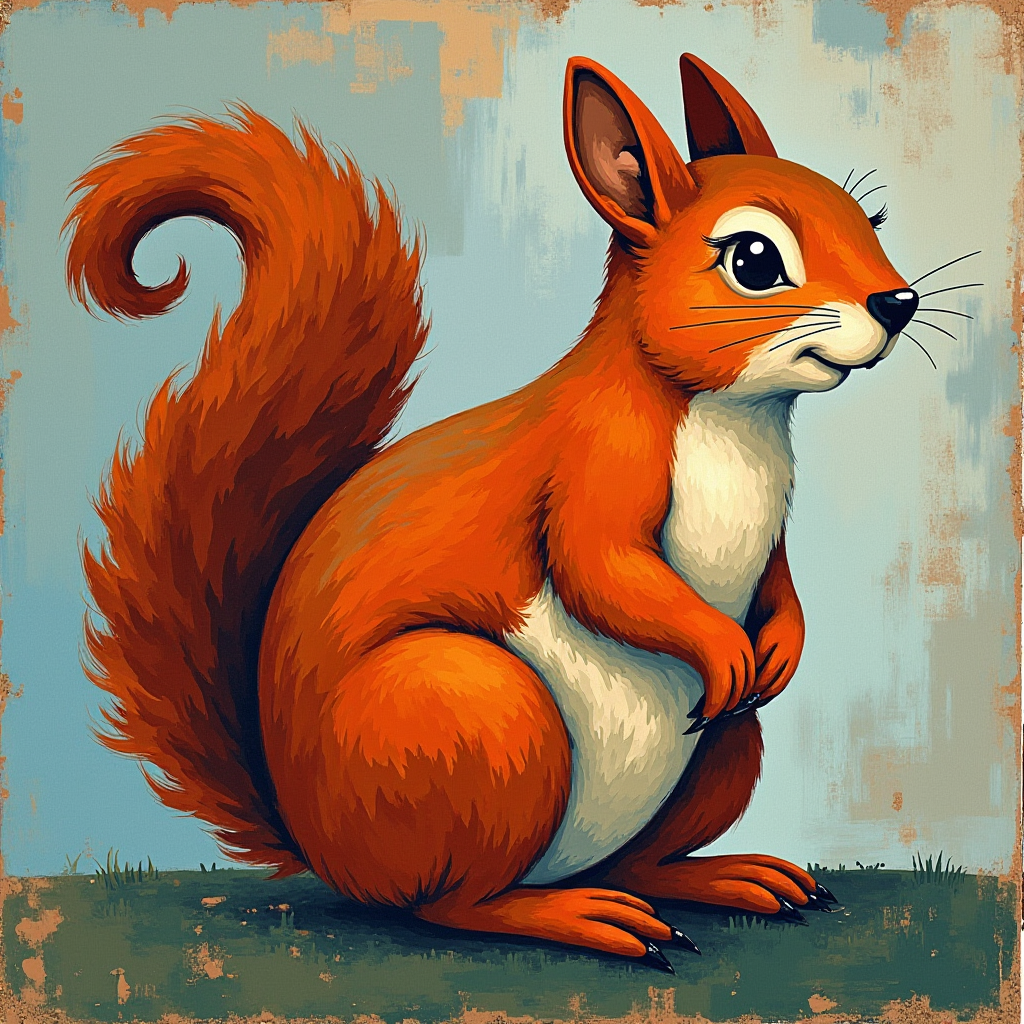
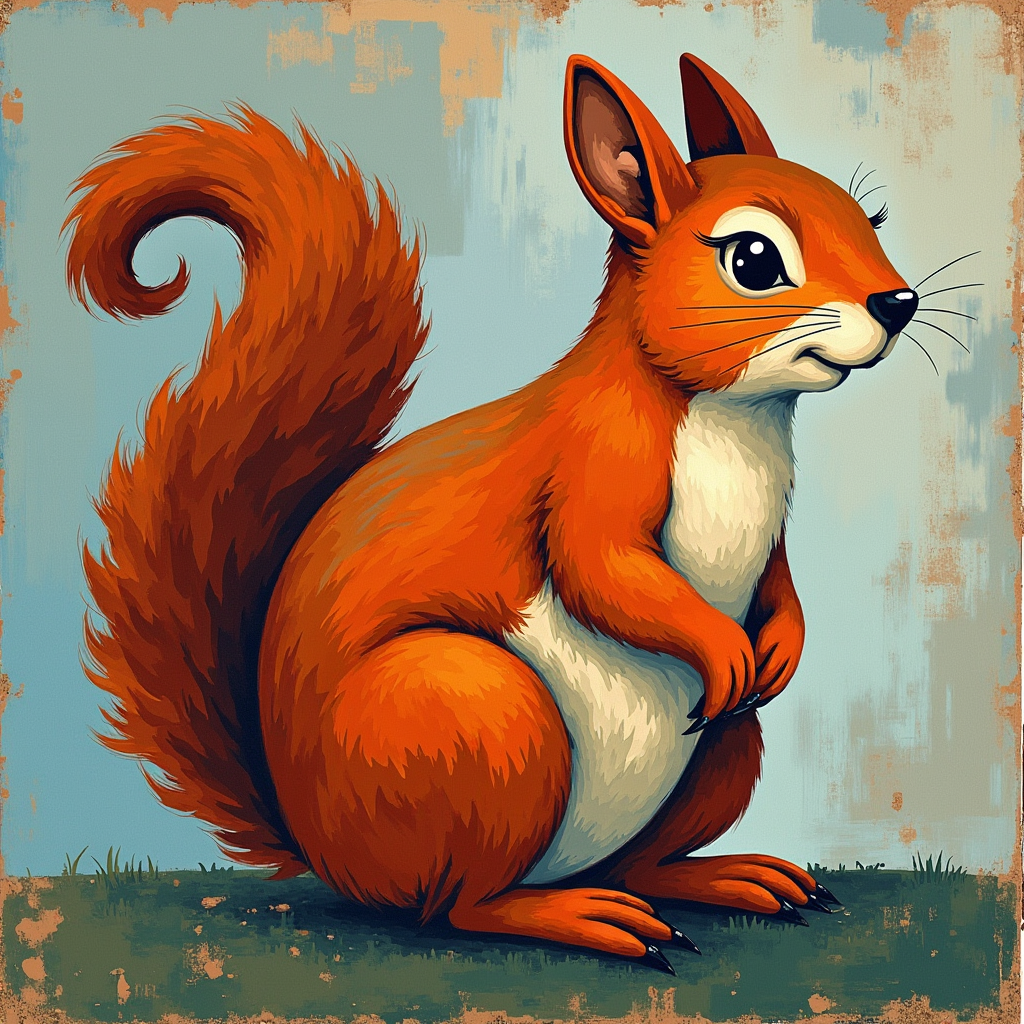
check_trainfree

diff --git a/ppdiffusers/examples/train-free/firstblock_taylorseer/forwards/flux_firstblock_taylor_predict_forward.py b/ppdiffusers/examples/train-free/firstblock_taylorseer/forwards/flux_firstblock_taylor_predict_forward.py
@@ -152,11 +152,6 @@ def FirstBlock_taylor_predict_Forward(
                 if can_use_cache == False:
                     self.prev_first_hidden_states_residual = first_hidden_states_residual.clone()
                 
-                # if self.accumulated_rel_l1_distance < self.rel_l1_thresh:
-                #     should_calc = False
-                # else:
-                #     should_calc = True
-                #     self.accumulated_rel_l1_distance = 0
             
             self.cnt += 1
             if self.cnt == self.num_steps:
@@ -166,14 +161,11 @@ def FirstBlock_taylor_predict_Forward(
         current = joint_attention_kwargs['current']
         if self.enable_teacache:
             if not should_calc:
-                #hidden_states += self.previous_residual
                 hidden_states = step_taylor_formula(cache_dic=cache_dic, current=current)
 
             else:
-                # ori_hidden_states = hidden_states.clone()
                 current['activated_steps'].append(current['step'])
                 for index_block, block in enumerate(self.transformer_blocks):
-                    #因为上面已经算了现在就不应该算了
                     if index_block == 0:
                         continue
                     if self.training and self.gradient_checkpointing:
@@ -263,90 +255,6 @@ def FirstBlock_taylor_predict_Forward(
 
                 hidden_states = hidden_states[:, encoder_hidden_states.shape[1] :, ...]
                 step_derivative_approximation(cache_dic=cache_dic, current=current, feature=hidden_states)
-                # self.previous_residual = hidden_states - ori_hidden_states
-        # else:
-        #     for index_block, block in enumerate(self.transformer_blocks):
-        #         if self.training and self.gradient_checkpointing:
-
-        #             def create_custom_forward(module, return_dict=None):
-        #                 def custom_forward(*inputs):
-        #                     if return_dict is not None:
-        #                         return module(*inputs, return_dict=return_dict)
-        #                     else:
-        #                         return module(*inputs)
-
-        #                 return custom_forward
-
-        #             ckpt_kwargs: Dict[str, Any] = {"use_reentrant": False} if is_torch_version(">=", "1.11.0") else {}
-        #             encoder_hidden_states, hidden_states = paddle.utils.checkpoint.checkpoint(
-        #                 create_custom_forward(block),
-        #                 hidden_states,
-        #                 encoder_hidden_states,
-        #                 temb,
-        #                 image_rotary_emb,
-        #                 **ckpt_kwargs,
-        #             )
-
-        #         else:
-        #             encoder_hidden_states, hidden_states = block(
-        #                 hidden_states=hidden_states,
-        #                 encoder_hidden_states=encoder_hidden_states,
-        #                 temb=temb,
-        #                 image_rotary_emb=image_rotary_emb,
-        #                 joint_attention_kwargs=joint_attention_kwargs,
-        #             )
-
-        #         # controlnet residual
-        #         if controlnet_block_samples is not None:
-        #             interval_control = len(self.transformer_blocks) / len(controlnet_block_samples)
-        #             interval_control = int(np.ceil(interval_control))
-        #             # For Xlabs ControlNet.
-        #             if controlnet_blocks_repeat:
-        #                 hidden_states = (
-        #                     hidden_states + controlnet_block_samples[index_block % len(controlnet_block_samples)]
-        #                 )
-        #             else:
-        #                 hidden_states = hidden_states + controlnet_block_samples[index_block // interval_control]
-        #     hidden_states = paddle.concat([encoder_hidden_states, hidden_states], axis=1)
-
-        #     for index_block, block in enumerate(self.single_transformer_blocks):
-        #         if self.training and self.gradient_checkpointing:
-
-        #             def create_custom_forward(module, return_dict=None):
-        #                 def custom_forward(*inputs):
-        #                     if return_dict is not None:
-        #                         return module(*inputs, return_dict=return_dict)
-        #                     else:
-        #                         return module(*inputs)
-
-        #                 return custom_forward
-
-        #             ckpt_kwargs: Dict[str, Any] = {"use_reentrant": False} if is_torch_version(">=", "1.11.0") else {}
-        #             hidden_states = paddle.utils.checkpoint.checkpoint(
-        #                 create_custom_forward(block),
-        #                 hidden_states,
-        #                 temb,
-        #                 image_rotary_emb,
-        #                 **ckpt_kwargs,
-        #             )
-
-        #         else:
-        #             hidden_states = block(
-        #                 hidden_states=hidden_states,
-        #                 temb=temb,
-        #                 image_rotary_emb=image_rotary_emb,
-        #                 joint_attention_kwargs=joint_attention_kwargs,
-        #             )
-
-        #         # controlnet residual
-        #         if controlnet_single_block_samples is not None:
-        #             interval_control = len(self.single_transformer_blocks) / len(controlnet_single_block_samples)
-        #             interval_control = int(np.ceil(interval_control))
-        #             hidden_states[:, encoder_hidden_states.shape[1] :, ...] = (
-        #                 hidden_states[:, encoder_hidden_states.shape[1] :, ...]
-        #                 + controlnet_single_block_samples[index_block // interval_control]
-        #             )
-        #     hidden_states = hidden_states[:, encoder_hidden_states.shape[1] :, ...]
 
         hidden_states = self.norm_out(hidden_states, temb)
         output = self.proj_out(hidden_states)

diff --git a/ppdiffusers/examples/train-free/sortblock/forwards/sort_taylor_forward.py b/ppdiffusers/examples/train-free/sortblock/forwards/sort_taylor_forward.py
@@ -131,7 +131,6 @@ def SortTaylor_forward(
             self.current_block_encoder_residual = [None] *len(self.transformer_blocks)
             self.current_single_block_residual = [None] *len(self.single_transformer_blocks)
             self.previous_block_residual = [None] *len(self.transformer_blocks)
-            # pipe.transformer.previous_block_encoder_residual = [None] *len(pipe.transformer.transformer_blocks)
             self.previous_single_block_residual = [None] *len(self.single_transformer_blocks)
             self.previous_encoder_block_residual = [None] *len(self.single_transformer_blocks)
             self.count = 0
@@ -189,10 +188,8 @@ def SortTaylor_forward(
                         encoder_hidden_states=encoder_hidden_states,
                         temb=temb,
                         image_rotary_emb=image_rotary_emb,
-                        # joint_attention_kwargs=joint_attention_kwargs,
                     )
 
-                # controlnet residual
                 if controlnet_block_samples is not None:
                     interval_control = len(self.transformer_blocks) / len(controlnet_block_samples)
                     interval_control = int(np.ceil(interval_control))
@@ -210,9 +207,7 @@ def SortTaylor_forward(
                 if self.count % self.step_Num == 0:
                     self.previous_block_residual[index_block] = hidden_states.clone() - ori_hidden_states
                     self.previous_encoder_block_residual[index_block] = encoder_hidden_states.clone() - ori_encoder_hidden_states
-                # elif self.count % self.step_Num == 1:
-                #     self.current_block_residual[index_block] = hidden_states.clone() - ori_hidden_states
-                #     self.current_block_encoder_residual[index_block] = encoder_hidden_states.clone() - ori_encoder_hidden_states
+                
             else:
                 if self.count % self.step_Num == 1:
                     current['module'] = 'hidden_states'
@@ -259,10 +254,9 @@ def SortTaylor_forward(
                         hidden_states=hidden_states,
                         temb=temb,
                         image_rotary_emb=image_rotary_emb,
-                        # joint_attention_kwargs=joint_attention_kwargs,
+
                     )
 
-                # controlnet residual
                 if controlnet_single_block_samples is not None:
                     interval_control = len(self.single_transformer_blocks) / len(controlnet_single_block_samples)
                     interval_control = int(np.ceil(interval_control))
@@ -274,8 +268,6 @@ def SortTaylor_forward(
                 derivative_approximation(cache_dic=cache_dic, current=current, feature=hidden_states.clone() - ori_hidden_states)
                 if self.count % self.step_Num == 0:
                     self.previous_single_block_residual[index_block] = hidden_states.clone() - ori_hidden_states
-                # elif self.count % self.step_Num == 1:
-                #     self.current_single_block_residual[index_block] = hidden_states.clone() - ori_hidden_states
             else:
                 if self.count % self.step_Num == 1:
                     current['module'] = 'hidden_states'
@@ -312,10 +304,6 @@ def SortTaylor_forward(
                     self.result_single_list.append(1)
                 else:
                     self.result_single_list.append(0)
-            # self.result_list[0] = 1
-            # self.result_single_list[0] = 1
-            # self.result_list[-1] = 1
-            # self.result_single_list[-1] = 1
 
             
 

diff --git a/ppdiffusers/examples/train-free/firstblock_taylorseer/taylorseer_utils/__init__.py b/ppdiffusers/examples/train-free/firstblock_taylorseer/taylorseer_utils/__init__.py
@@ -13,7 +13,6 @@ def step_derivative_approximation(cache_dic: Dict, current: Dict, feature: paddl
     :param current: Information of the current step
     """
     difference_distance = current['activated_steps'][-1] - current['activated_steps'][-2]
-    #difference_distance = current['activated_times'][-1] - current['activated_times'][-2]
 
     updated_taylor_factors = {}
     updated_taylor_factors[0] = feature
@@ -34,7 +33,6 @@ def step_taylor_formula(cache_dic: Dict, current: Dict) -> paddle.Tensor:
     :param current: Information of the current step
     """
     x = current['step'] - current['activated_steps'][-1]
-    #x = current['t'] - current['activated_times'][-1]
     output = 0
 
     for i in range(len(cache_dic['cache']['hidden'])):
@@ -49,7 +47,6 @@ def derivative_approximation(cache_dic: Dict, current: Dict, feature: paddle.Ten
     :param current: Information of the current step
     """
     difference_distance = current['activated_steps'][-1] - current['activated_steps'][-2]
-    #difference_distance = current['activated_times'][-1] - current['activated_times'][-2]
 
     updated_taylor_factors = {}
     updated_taylor_factors[0] = feature
@@ -70,7 +67,6 @@ def taylor_formula(cache_dic: Dict, current: Dict) -> paddle.Tensor:
     :param current: Information of the current step
     """
     x = current['step'] - current['activated_steps'][-1]
-    #x = current['t'] - current['activated_times'][-1]
     output = 0
 
     for i in range(len(cache_dic['cache'][-1][current['stream']][current['layer']][current['module']])):

diff --git a/ppdiffusers/examples/train-free/sortblock/diffusers_sorttaylor_flux.py b/ppdiffusers/examples/train-free/sortblock/diffusers_sorttaylor_flux.py
@@ -1,4 +1,4 @@
-# Copyright (c) 2024 PaddlePaddle Authors. All Rights Reserved.
+# Copyright (c) 2025 PaddlePaddle Authors. All Rights Reserved.
 #
 # Licensed under the Apache License, Version 2.0 (the "License");
 # you may not use this file except in compliance with the License.
@@ -29,7 +29,7 @@ logger = logging.get_logger(__name__)  # pylint: disable=invalid-name
 num_inference_steps = 50
 seed = 42
 prompt = "An image of a squirrel in Picasso style"
-#
+
 pipeline = DiffusionPipeline.from_pretrained("black-forest-labs/FLUX.1-dev", paddle_dtype=paddle.bfloat16)
 #pipeline.enable_model_cpu_offload() #save some VRAM by offloading the model to CPU. Remove this if you have enough GPU power
 
@@ -47,11 +47,11 @@ pipeline.transformer.previous_encoder_block_residual = [None] *len(pipeline.tran
 pipeline.transformer.result_list = []
 pipeline.transformer.result_single_list = []
 pipeline.transformer.start = 900
-pipeline.transformer.end = 100
+pipeline.transformer.end = 50
 pipeline.transformer.precentage = 1
 pipeline.transformer.step_Num = 1
 pipeline.transformer.step_Num2 = 5
-pipeline.transformer.beta = 0.3
+pipeline.transformer.beta = 0.1
 pipeline.transformer.count = 0
 
 

diff --git a/ppdiffusers/examples/train-free/sortblock/cache_functions/cal_type.py b/ppdiffusers/examples/train-free/sortblock/cache_functions/cal_type.py
@@ -8,9 +8,7 @@ def cal_type(cache_dic, current):
         # FORA:Uniform
         first_step = (current['step'] == 0)
     else:
-        # ToCa: First enhanced
         first_step = (current['step'] < cache_dic['first_enhance'])
-        #first_step = (current['step'] <= 3)
 
     force_fresh = cache_dic['force_fresh']
     if not first_step:
@@ -22,7 +20,6 @@ def cal_type(cache_dic, current):
         current['type'] = 'full'
         cache_dic['cache_counter'] = 0
         current['activated_steps'].append(current['step'])
-        #current['activated_times'].append(current['t'])
         force_scheduler(cache_dic, current)
     
     elif (cache_dic['taylor_cache']):
@@ -40,10 +37,3 @@ def cal_type(cache_dic, current):
     else:
         cache_dic['cache_counter'] += 1
         current['type'] = 'ToCa'
-        #if current['step'] < 25:
-        #    current['type'] = 'FORA'
-        #else:    
-        #    current['type'] = 'aggressive'
-######################################################################
-    #if (current['step'] in [3,2,1,0]):
-    #    current['type'] = 'full'

diff --git a/ppdiffusers/examples/train-free/firstblock_taylorseer/diffusers_firstblock_taylor_predict_flux.py b/ppdiffusers/examples/train-free/firstblock_taylorseer/diffusers_firstblock_taylor_predict_flux.py
@@ -16,18 +16,8 @@ seed = 42
 
 prompt = "An image of a squirrel in Picasso style"
 pipe = DiffusionPipeline.from_pretrained("black-forest-labs/FLUX.1-dev", paddle_dtype=paddle.float16)
-#pipeline.enable_model_cpu_offload() #save some VRAM by offloading the model to CPU. Remove this if you have enough GPU power
-
-# TaylorSeer settings
-# pipe.transformer.__class__.num_steps = num_inference_steps
 
 pipe.transformer.__class__.forward = FirstBlock_taylor_predict_Forward
-
-# for double_transformer_block in pipe.transformer.transformer_blocks:
-#     double_transformer_block.__class__.forward = taylorseer_flux_double_block_forward
-    
-# for single_transformer_block in pipe.transformer.single_transformer_blocks:
-#     single_transformer_block.__class__.forward = taylorseer_flux_single_block_forward
 
 pipe.transformer.enable_teacache = True
 pipe.transformer.cnt = 0

diff --git a/ppdiffusers/examples/train-free/taylorseer/taylorseer_utils/__init__.py b/ppdiffusers/examples/train-free/taylorseer/taylorseer_utils/__init__.py
@@ -10,7 +10,6 @@ def derivative_approximation(cache_dic: Dict, current: Dict, feature: paddle.Ten
     :param current: Information of the current step
     """
     difference_distance = current['activated_steps'][-1] - current['activated_steps'][-2]
-    #difference_distance = current['activated_times'][-1] - current['activated_times'][-2]
 
     updated_taylor_factors = {}
     updated_taylor_factors[0] = feature
@@ -31,7 +30,6 @@ def taylor_formula(cache_dic: Dict, current: Dict) -> paddle.Tensor:
     :param current: Information of the current step
     """
     x = current['step'] - current['activated_steps'][-1]
-    #x = current['t'] - current['activated_times'][-1]
     output = 0
 
     for i in range(len(cache_dic['cache'][-1][current['stream']][current['layer']][current['module']])):

diff --git a/ppdiffusers/examples/train-free/sortblock/cache_functions/cache_init.py b/ppdiffusers/examples/train-free/sortblock/cache_functions/cache_init.py
@@ -18,7 +18,6 @@ def cache_init(self: FluxTransformer2DModel):
     cache[-1]['single_stream']={}
     cache_dic['cache_counter'] = 0
 
-    #for j in range(19):
     for j in range(self.config.num_layers):
         cache[-1]['double_stream'][j] = {}
         cache[-1]['double_stream'][j]['hidden_states'] = {}
@@ -28,7 +27,6 @@ def cache_init(self: FluxTransformer2DModel):
         cache_dic['block'][-1]['double_stream'][j]['hidden_states'] = {}
         cache_dic['block'][-1]['double_stream'][j]['encoder_hidden_states'] = {}
 
-    #for j in range(38):
     for j in range(self.config.num_single_layers):
         cache[-1]['single_stream'][j] = {}
         cache[-1]['single_stream'][j]['hidden_states'] = {}

diff --git a/ppdiffusers/examples/train-free/firstblock_taylorseer/cache_functions/cache_init_step.py b/ppdiffusers/examples/train-free/firstblock_taylorseer/cache_functions/cache_init_step.py
@@ -10,10 +10,6 @@ def cache_init_step(self: FluxTransformer2DModel):
     cache['hidden'] = {}
     cache_index[-1]={}
     cache_index['layer_index']={}
-    # cache_dic['attn_map'] = {}
-    # cache_dic['attn_map'][-1] = {}
-    # cache_dic['attn_map'][-1]['double_stream'] = {}
-    # cache_dic['attn_map'][-1]['single_stream'] = {}
 
     cache_dic['cache_counter'] = 0
 

diff --git a/ppdiffusers/examples/train-free/pab/text_to_image_generation-flux-pab.py b/ppdiffusers/examples/train-free/pab/text_to_image_generation-flux-pab.py
@@ -1,4 +1,4 @@
-# Copyright (c) 2024 PaddlePaddle Authors. All Rights Reserved.
+# Copyright (c) 2025 PaddlePaddle Authors. All Rights Reserved.
 #
 # Licensed under the Apache License, Version 2.0 (the "License");
 # you may not use this file except in compliance with the License.

diff --git a/ppdiffusers/examples/train-free/firstblock_taylorseer/cache_functions/__init__.py b/ppdiffusers/examples/train-free/firstblock_taylorseer/cache_functions/__init__.py
@@ -1,4 +1,1 @@
-# from .cache_init import cache_init
-# from .cal_type import cal_type
-# from .force_scheduler import force_scheduler
 from .cache_init_step import cache_init_step
